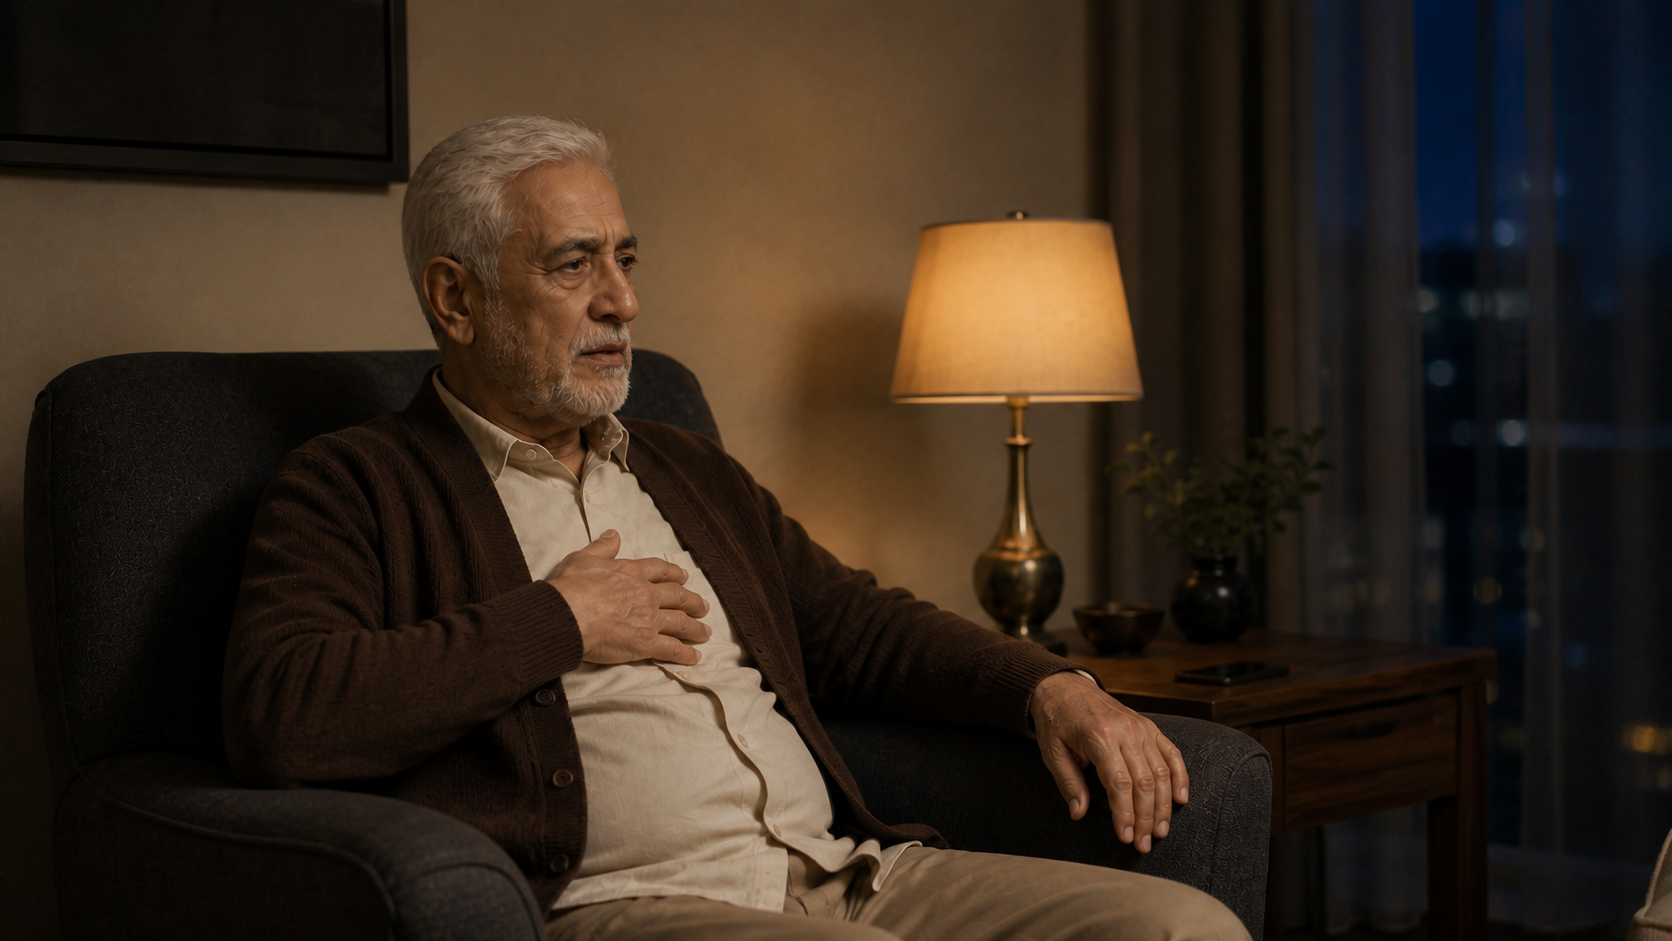
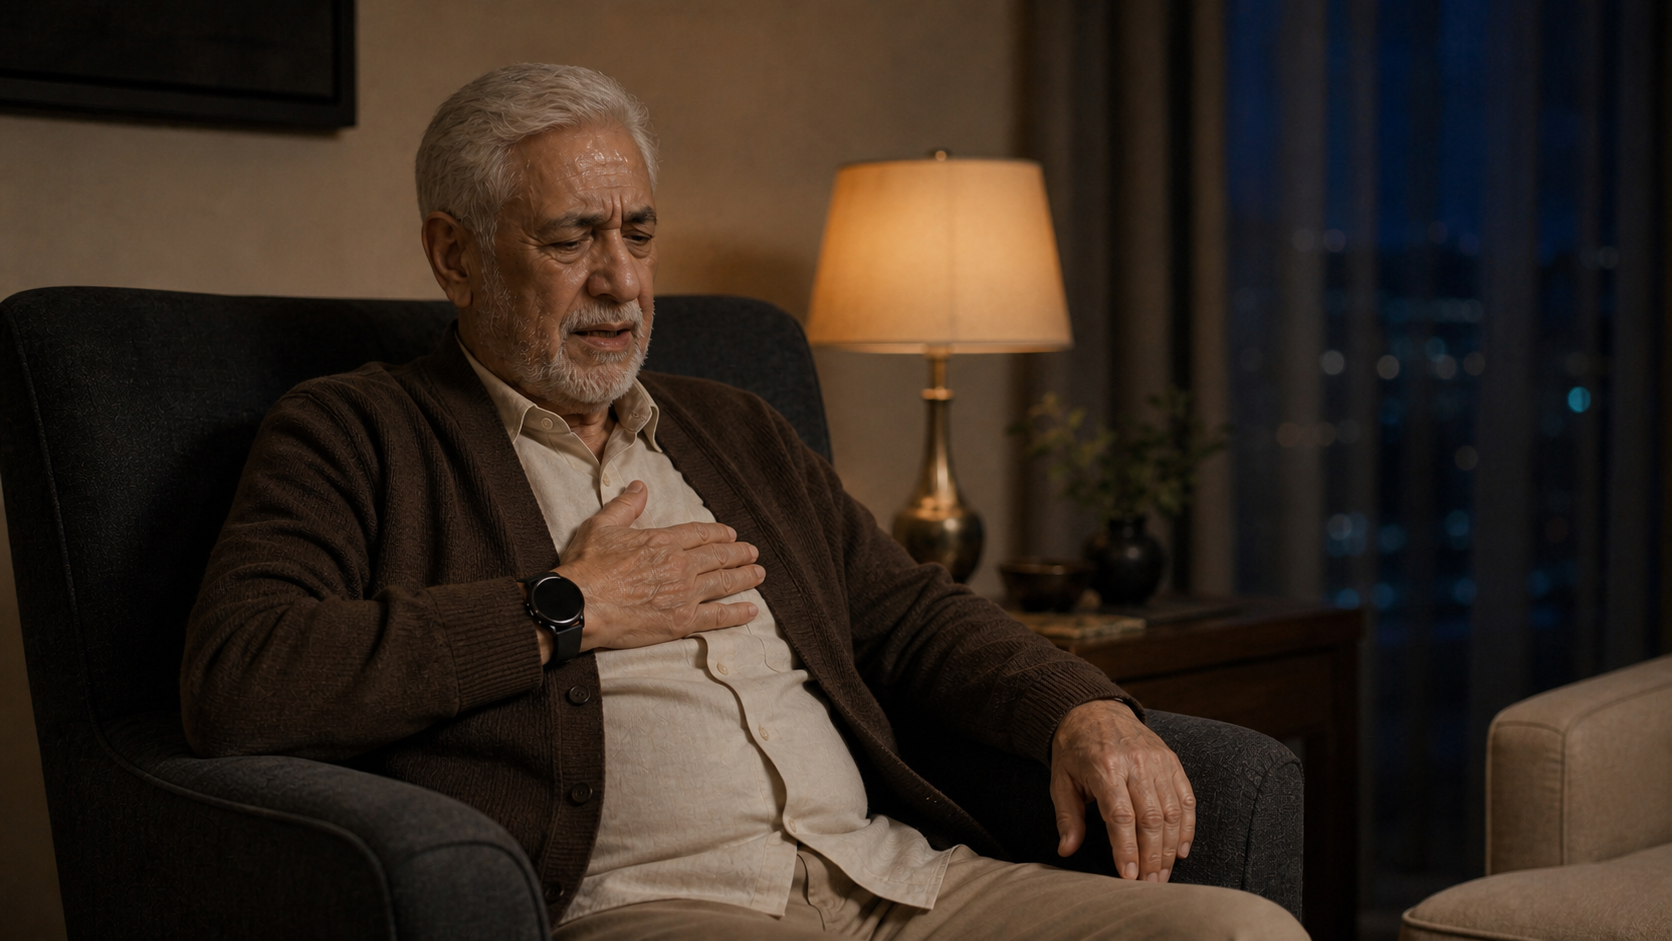
fixedwearable issue

diff --git a/app/page.tsx b/app/page.tsx
@@ -252,8 +252,8 @@ const partTwoFrames: Record<string, StoryFrame[]> = {
   "12": buildPartTwoFrames("moment-01-child", [["01:46", "01-46-mother-rises.png", "She begins to walk"], ["01:47", "01-47-mother-walks.png", "Following calmly"], ["01:48", "01-48-mother-rounds-hedge.png", "Around the hedge"], ["01:49", "01-49-yousef-revealed-safe.png", "Yousef is safe"], ["01:50", "01-50-yousef-safe-cap.png", "Cap turning"], ["01:51", "01-51-mother-sits-beside.png", "Space and patience"], ["01:52", "01-52-open-palm.png", "Open palm"], ["01:53", "01-53-cap-handover.png", "Shared gesture"]]),
   "13": buildPartTwoFrames("moment-02-lina-medicine", [["01:54", "01-54-title-card-black.png", "An ordinary morning"], ["01:55", "01-55-title-card-black.png", "Title hold"], ["01:56", "02-56-lina-makes-tea.png", "Amina makes tea"], ["01:57", "02-57-lina-waters-plant.png", "Watering the plant"], ["01:58", "02-58-lina-breakfast.png", "Breakfast"], ["01:59", "02-59-refill-reminder-composited.svg", "Rahma refill reminder"], ["02:00", "02-00-pharmacist-prepares-bag.png", "Pharmacist prepares"], ["02:01", "02-01-rider-packs-tote.png", "Rider packs"], ["02:02", "02-02-bag-at-door.png", "Bag at the accessible door"], ["02:03", "02-03-lina-receives-bag.png", "Amina receives it"]]),
   "14": buildPartTwoFrames("moment-02-lina-medicine", [["02:04", "02-04-lina-closes-door.png", "Bag beside her chair"], ["02:05", "02-05-lina-shelves-bag.png", "Bag stored accessibly"], ["02:06", "02-06-lina-tea-newspaper.png", "Tea and newspaper"], ["02:07", "02-07-tea-glass-detail.png", "Tea-glass detail"], ["02:08", "02-08-lina-reads.png", "Reading in stillness"], ["02:09", "02-09-kitchen-window-plant.png", "Kitchen stillness"], ["02:10", "02-10-lina-profile.png", "Morning profile"], ["02:11", "02-11-tea-stillness.png", "Nothing interrupts"]]),
-  "15": buildPartTwoFrames("moment-03-ahmed-night", [["02:12", "02-12-title-card-black.png", "A Tuesday night"], ["02:13", "02-13-ahmed-asleep.png", "Ahmed asleep"], ["02:14", "02-14-ahmed-home-detail.png", "His own home"], ["02:15", "02-15-ahmed-wakes.png", "Subtle change"], ["02:16", "02-16-ahmed-looks-phone.png", "Looks to the phone"], ["02:17", "02-17-ahmed-reaches-phone.png", "Careful reach"], ["02:18", "02-18-thumb-hold.png", "Thumb settles"], ["02:19", "02-19-thumb-hold-one.png", "Hold: one"], ["02:20", "02-20-thumb-hold-two.png", "Hold: two"], ["02:21", "02-21-ahmed-composed.png", "Composed response"]]),
-  "16": buildPartTwoFrames("moment-03-ahmed-night", [["02:22", "02-22-daughter-table.png", "Daughter at dinner table"], ["02:23", "02-23-daughter-phone.png", "Soft notice"], ["02:24", "02-24-daughter-understands.png", "She understands"], ["02:25", "02-25-daughter-keys.png", "Keys"], ["02:26", "02-26-daughter-leaves.png", "Leaving calmly"], ["02:27", "02-27-daughter-car.png", "Focused journey"], ["02:28", "02-28-building-corridor.png", "Building corridor"], ["02:29", "02-29-paramedics-with-ahmed.png", "Care already there"]]),
+  "15": buildPartTwoFrames("moment-03-ahmed-night", [["02:12", "02-12-title-card-black.png", "A Tuesday night"], ["02:13", "02-13-ahmed-asleep.png", "Ahmed asleep"], ["02:14", "02-14-ahmed-home-detail.png", "His own home"], ["02:15", "02-15-ahmed-wakes.png", "Cardiac distress"], ["02:16", "02-16-ahmed-looks-phone.png", "Watch detects it"], ["02:17", "02-17-ahmed-reaches-phone.png", "Rahma activates on watch"], ["02:18", "02-18-thumb-hold.png", "Phone wakes automatically"], ["02:19", "02-19-thumb-hold-one.png", "Watch-to-phone connection"], ["02:20", "02-20-thumb-hold-two.png", "Rahma continues automatically"], ["02:21", "02-21-ahmed-composed.png", "Ahmed does not need the phone"]]),
+  "16": buildPartTwoFrames("moment-03-ahmed-night", [["02:22", "02-22-daughter-table.png", "Daughter's phone wakes"], ["02:23", "02-23-daughter-phone.png", "She understands"], ["02:24", "02-24-daughter-understands.png", "She understands"], ["02:25", "02-25-daughter-keys.png", "Keys"], ["02:26", "02-26-daughter-leaves.png", "Leaving calmly"], ["02:27", "02-27-daughter-car.png", "Focused journey"], ["02:28", "02-28-building-corridor.png", "Building corridor"], ["02:29", "02-29-paramedics-with-ahmed.png", "Care already there"]]),
   "17": buildPartTwoFrames("moment-04-close", [["02:30", "02-30-teenager-with-parents.png", "Family, together"], ["02:31", "02-31-teenager-with-parents.png", "Family, held"], ["02:32", "02-32-amina-newspaper.png", "Amina, in stillness"], ["02:33", "02-33-amina-newspaper.png", "Amina, in stillness"], ["02:34", "02-34-ahmed-daughter-hands.png", "Ahmed and his daughter"], ["02:35", "02-35-ahmed-daughter-hands.png", "Hands, together"], ["02:36", "02-36-amina-face.png", "Amina's face"], ["02:37", "02-37-ahmed-face.png", "Ahmed's face"], ["02:38", "02-38-black.png", "Quiet black"], ["02:39", "02-39-black.png", "Quiet black"], ["02:40", "02-40-black.png", "Quiet black"], ["02:41", "02-41-black.png", "There is a word for that"], ["02:42", "02-42-rahma-arabic.svg", "Rahma"], ["02:43", "02-43-rahma-arabic.svg", "Rahma hold"], ["02:44", "02-44-rahma-arabic.svg", "Rahma hold"], ["02:45", "02-45-rahma-logo.svg", "Rahma"], ["02:46", "02-46-rahma-logo.svg", "Rahma logo hold"], ["02:47", "02-47-black.png", "Black"], ["02:48", "02-48-black.png", "Black hold"], ["02:49", "02-49-black.png", "End"]])
 };
 
@@ -368,8 +368,8 @@ const clips: Clip[] = [
   { id: "12", title: "The child — family handover", range: "01:46 — 01:54", section: "Moments", source: "Editorially trimmed to 8 seconds.", beat: "The parents, fire-rescue team and teenager complete a calm, safe handover outside the building.", voiceover: "Help is already on its way. His family reaches him safe.", sound: "Quiet response ambience and family relief; no siren foreground.", refs: ["PART 2 / TEEN + FAMILY + FIRE-RESCUE"], prompt: "Keep the family and rescue response composed; no injury, crowd or spectacle.", first: "Parents check in.", last: "Relieved family connection.", bridge: "Cut to black for Lina's morning.", frames: partTwoFrames["12"] },
   { id: "13", title: "The medicine — setup", range: "01:54 — 02:04", section: "Moments", source: "Use full 10 seconds.", beat: "Amina's routine refill arrives before it becomes a problem, without asking her to leave home.", voiceover: "Amina has insulin for nine more days. Nobody has fallen. Nothing has gone wrong. Rahma noticed nine days ago.", sound: "Tea, plant water and a soft doorbell.", refs: ["PART 2 / AMINA WHEELCHAIR CONTINUITY", "EMIRATI SUPPORT CAST"], prompt: "Amina is an authentic Emirati permanent wheelchair user: she remains visibly seated in the locked manual wheelchair, never standing or walking. Routine prevention only; no medical drama.", first: "Black title card.", last: "Amina receives the bag at seated height.", bridge: "Continue into the proof of stillness.", frames: partTwoFrames["13"] },
   { id: "14", title: "The medicine — proof", range: "02:04 — 02:12", section: "Moments", source: "Editorially trimmed to 8 seconds.", beat: "Nothing happens today. That is the proof.", voiceover: "Nothing happens today. That is the point.", sound: "Tea, paper and morning room tone.", refs: ["PART 2 / AMINA WHEELCHAIR CONTINUITY"], prompt: "Hold ordinary, capable domestic calm. Amina remains seated in the locked wheelchair wherever she appears; no interruption.", first: "Bag beside her chair.", last: "Tea stays still.", bridge: "Cut to black for Ahmed's night.", frames: partTwoFrames["14"] },
-  { id: "15", title: "The night — recognition", range: "02:12 — 02:22", section: "Moments", source: "Use full 10 seconds.", beat: "Ahmed notices a subtle wrongness and calmly uses Rahma.", voiceover: "Ahmed is eighty-one. He lives alone, and he prefers it that way.", sound: "One lamp, television murmur and a restrained confirmation tone.", refs: ["PART 2 / AHMED"], prompt: "No fall, gasp or medical spectacle. The hold is quiet.", first: "Black title card.", last: "Ahmed rests composed.", bridge: "Cut to the daughter before anyone needs to explain.", frames: partTwoFrames["15"] },
-  { id: "16", title: "The night — connection", range: "02:22 — 02:30", section: "Moments", source: "Editorial 8-second use.", beat: "Ahmed's daughter knows and arrives while calm care is already present.", voiceover: "He was never on his own. Not for one minute.", sound: "Keys, room tone and quiet relief. No siren.", refs: ["PART 2 / AHMED + DAUGHTER", "EMIRATI PARAMEDICS"], prompt: "Connection, not a rescue spectacle; end just before the close montage.", first: "Daughter at home.", last: "Care already there.", bridge: "The close montage begins at 02:30.", frames: partTwoFrames["16"] },
+  { id: "15", title: "The night — recognition", range: "02:12 — 02:22", section: "Moments", source: "Use full 10 seconds.", beat: "Ahmed's wearable detects acute cardiac distress and activates Rahma before he can ask for help. His nearby phone mirrors the app automatically; he never touches it.", voiceover: "Ahmed is eighty-one. He lives alone, and he prefers it that way.", sound: "One lamp, television murmur and a restrained watch confirmation tone.", refs: ["PART 2 / AHMED", "REF-04 WEARABLE + PHONE"], prompt: "Show medically clear but non-graphic cardiac distress: conscious, seated, shallow breathing, sweat and a hand to chest. The exact Rahma watch detects and activates automatically, then the untouched nearby graphite phone mirrors the locked Rahma app. No fall, phone handling, siren or medical spectacle.", first: "Black title card.", last: "Ahmed supported by automatic Rahma response.", bridge: "Cut to the daughter as her untouched phone receives the same Rahma state.", frames: partTwoFrames["15"] },
+  { id: "16", title: "The night — connection", range: "02:22 — 02:30", section: "Moments", source: "Editorial 8-second use.", beat: "Ahmed's daughter's untouched phone wakes automatically to Rahma; she understands and arrives while calm care is already present.", voiceover: "He was never on his own. Not for one minute.", sound: "A restrained phone confirmation tone, keys, room tone and quiet relief. No siren.", refs: ["PART 2 / AHMED + DAUGHTER", "REF-04 WEARABLE + PHONE", "EMIRATI PARAMEDICS"], prompt: "The daughter's phone activates itself with the locked Rahma app while she is setting the table; she does not touch it until after she understands. Connection, not rescue spectacle; end just before the close montage.", first: "Untouched Rahma phone wakes on the counter.", last: "Care already there.", bridge: "The close montage begins at 02:30.", frames: partTwoFrames["16"] },
   { id: "17", title: "Close — Rahma", range: "02:30 — 02:50", section: "Close", source: "Use full 20 seconds.", beat: "A slow human montage resolves into silence, the Arabic word, Rahma, logo, then black.", voiceover: "This country was built on a promise — that no one here would be left to manage alone. In this country, someone is always thinking about the people who cannot always ask. There is a word for that.", sound: "Music thins to a single line, then silence. No effects.", refs: ["PART 2 / CHILD FAMILY", "PART 2 / AMINA", "PART 2 / AHMED + DAUGHTER"], prompt: "Hold the quiet montage longer than comfortable. Use only established Emirati characters; exact Arabic and logo cards are compositor-supplied. End on true black.", first: "Teenager safe with his parents.", last: "Black.", bridge: "End.", frames: partTwoFrames["17"] }
 ];
 

diff --git a/RAHMA_10s_Generation_Storyboard_Part_2.md b/RAHMA_10s_Generation_Storyboard_Part_2.md
@@ -42,7 +42,7 @@ These boards are generation prerequisites, not optional inspiration. The approve
 
 1. **Teenager, family and fire-rescue continuity board** - Emirati boy, 13–14, muted teal hoodie and dark trousers; Emirati mother and father; and a calm Emirati fire-rescue team. The child is visibly worried but physically safe in a clear building corridor; fire is established separately through the response context, never with graphic danger to the child.
 2. **Amina continuity board** - Amina is an authentic Emirati woman in her late 40s: taupe hijab, cream cardigan, muted teal blouse and navy trousers. She is a permanent wheelchair user and remains seated in her manual wheelchair in every applicable shot; never depict her standing or walking. Her cream-and-walnut home is visibly accessible, with lowered work surfaces and a clear doorway. The tone is ordinary morning competence, not frailty or patienthood.
-3. **Ahmed and daughter continuity board** - Ahmed: Emirati man, 81, silver hair, warm-brown cardigan over a cream shirt, seated in his own tidy living room. Daughter: Emirati woman, early 40s, contemporary UAE wardrobe in muted indigo and cream. Their relationship is close without melodrama.
+3. **Ahmed, daughter and wearable continuity board** - Ahmed: Emirati man, 81, silver hair, warm-brown cardigan over a cream shirt, seated in his own tidy living room and wearing the exact locked round black Rahma watch. Daughter: Emirati woman, early 40s, contemporary UAE wardrobe in muted indigo and cream. Their relationship is close without melodrama. In the cardiac-distress sequence Ahmed never needs to take, hold or operate a mobile phone: the watch detects first and the nearby phone mirrors Rahma automatically.
 4. **Location board** - Building corridor, Amina's accessible kitchen and doorway, Ahmed's living room and building corridor. Every location must use cream limestone, walnut and restrained teal notes consistent with `REF-02` and `REF-03`.
 5. **Device plate** - Exact phone and sparse abstract map/hold-state treatment, composited from REF-04 rather than reimagined by image generation.
 
@@ -135,13 +135,13 @@ Use the supplied shooting-script voiceover below. The visual pacing must leave r
 | 02:12 | Matte black title-card frame. | Composite approved bilingual title in post: “A Tuesday night”. |
 | 02:13 | Ahmed asleep in his chair; one lamp, television murmuring. | Tidy, lived-in home; he is autonomous, not isolated as spectacle. |
 | 02:14 | Wider room detail: familiar books, folded blanket, side table. | Establish this as clearly his own space. |
-| 02:15 | Ahmed wakes; his brow tightens and one hand rests lightly at his chest. | We see the wrongness in his face and careful breathing—no collapse, gasp or dramatic pain performance. |
-| 02:16 | He keeps breathing carefully and looks to the phone. | The wrongness is restrained but unmistakable. |
-| 02:17 | His hand reaches carefully toward the graphite phone. | Phone on walnut side table; same device plate. |
-| 02:18 | Macro: his thumb settles on the amber hold circle. | Exact device plate; no generated text. |
-| 02:19 | Thumb holding: count one. | Stillness does the counting. |
-| 02:20 | Thumb holding: count two; one soft teal confirmation pulse. | Composite pulse in post; no extra UI. |
-| 02:21 | Ahmed rests back, conscious and composed. | The system is responding before he has to explain. |
+| 02:15 | Ahmed experiences visibly acute cardiac distress while seated: shallow breaths, brow tight, sweat and one hand at his chest. | He remains conscious and upright; make the medical urgency clear without a fall, gasp, collapse or spectacle. |
+| 02:16 | His Rahma watch wakes automatically as the distress is detected. | Ahmed does not touch the wearable or reach for a phone. The exact round black watch has its deep-indigo face, amber ring, RAHMA mark and a quiet teal detection pulse. |
+| 02:17 | Macro: the watch automatically activates Rahma on Ahmed's wrist. | No finger press, dashboard or incident text; only the locked watch treatment and restrained pulse. |
+| 02:18 | Untouched graphite phone on the walnut side table wakes automatically. | The Rahma app mirrors the watch state: deep-indigo screen, one amber-gold Rahma circle and soft teal confirmation halo. Ahmed's hands stay away from it. |
+| 02:19 | The automatic phone-to-care connection holds. | Keep the phone untouched and secondary; the watch remains active on Ahmed's wrist. |
+| 02:20 | Ahmed stays seated and conscious as Rahma continues in the background. | Show the active watch and nearby unattended phone together; no action is required from him. |
+| 02:21 | Ahmed rests back, conscious and supported before anyone arrives. | The system is responding because the watch detected distress, before he has to explain. |
 
 ### Clip 16 | 02:22-02:30 | Moment Three - The Night, connection
 
@@ -151,8 +151,8 @@ Use the supplied shooting-script voiceover below. The visual pacing must leave r
 
 | Time | One-second frame | Generation / compositing requirement |
 | --- | --- | --- |
-| 02:22 | Ahmed's daughter is mid-sentence while setting a kitchen table. | Warm family context; do not crowd the frame. |
-| 02:23 | Her phone lights softly on the counter; she notices. | Phone screen secondary and non-readable. |
+| 02:22 | Ahmed's daughter sets the table as her untouched phone automatically wakes to Rahma. | Warm family context; the automatic activation on the counter must be unmistakable. |
+| 02:23 | She sees the Rahma phone state and understands. | Phone is still untouched; concern, not panic. Exact device treatment only, no generated incident wording. |
 | 02:24 | Close on her face: she stops and understands. | Concern, not panic. |
 | 02:25 | Her hand takes keys from a hook. | Quiet, precise action. |
 | 02:26 | She passes through the apartment door. | Door opens and closes gently; no rushing. |
